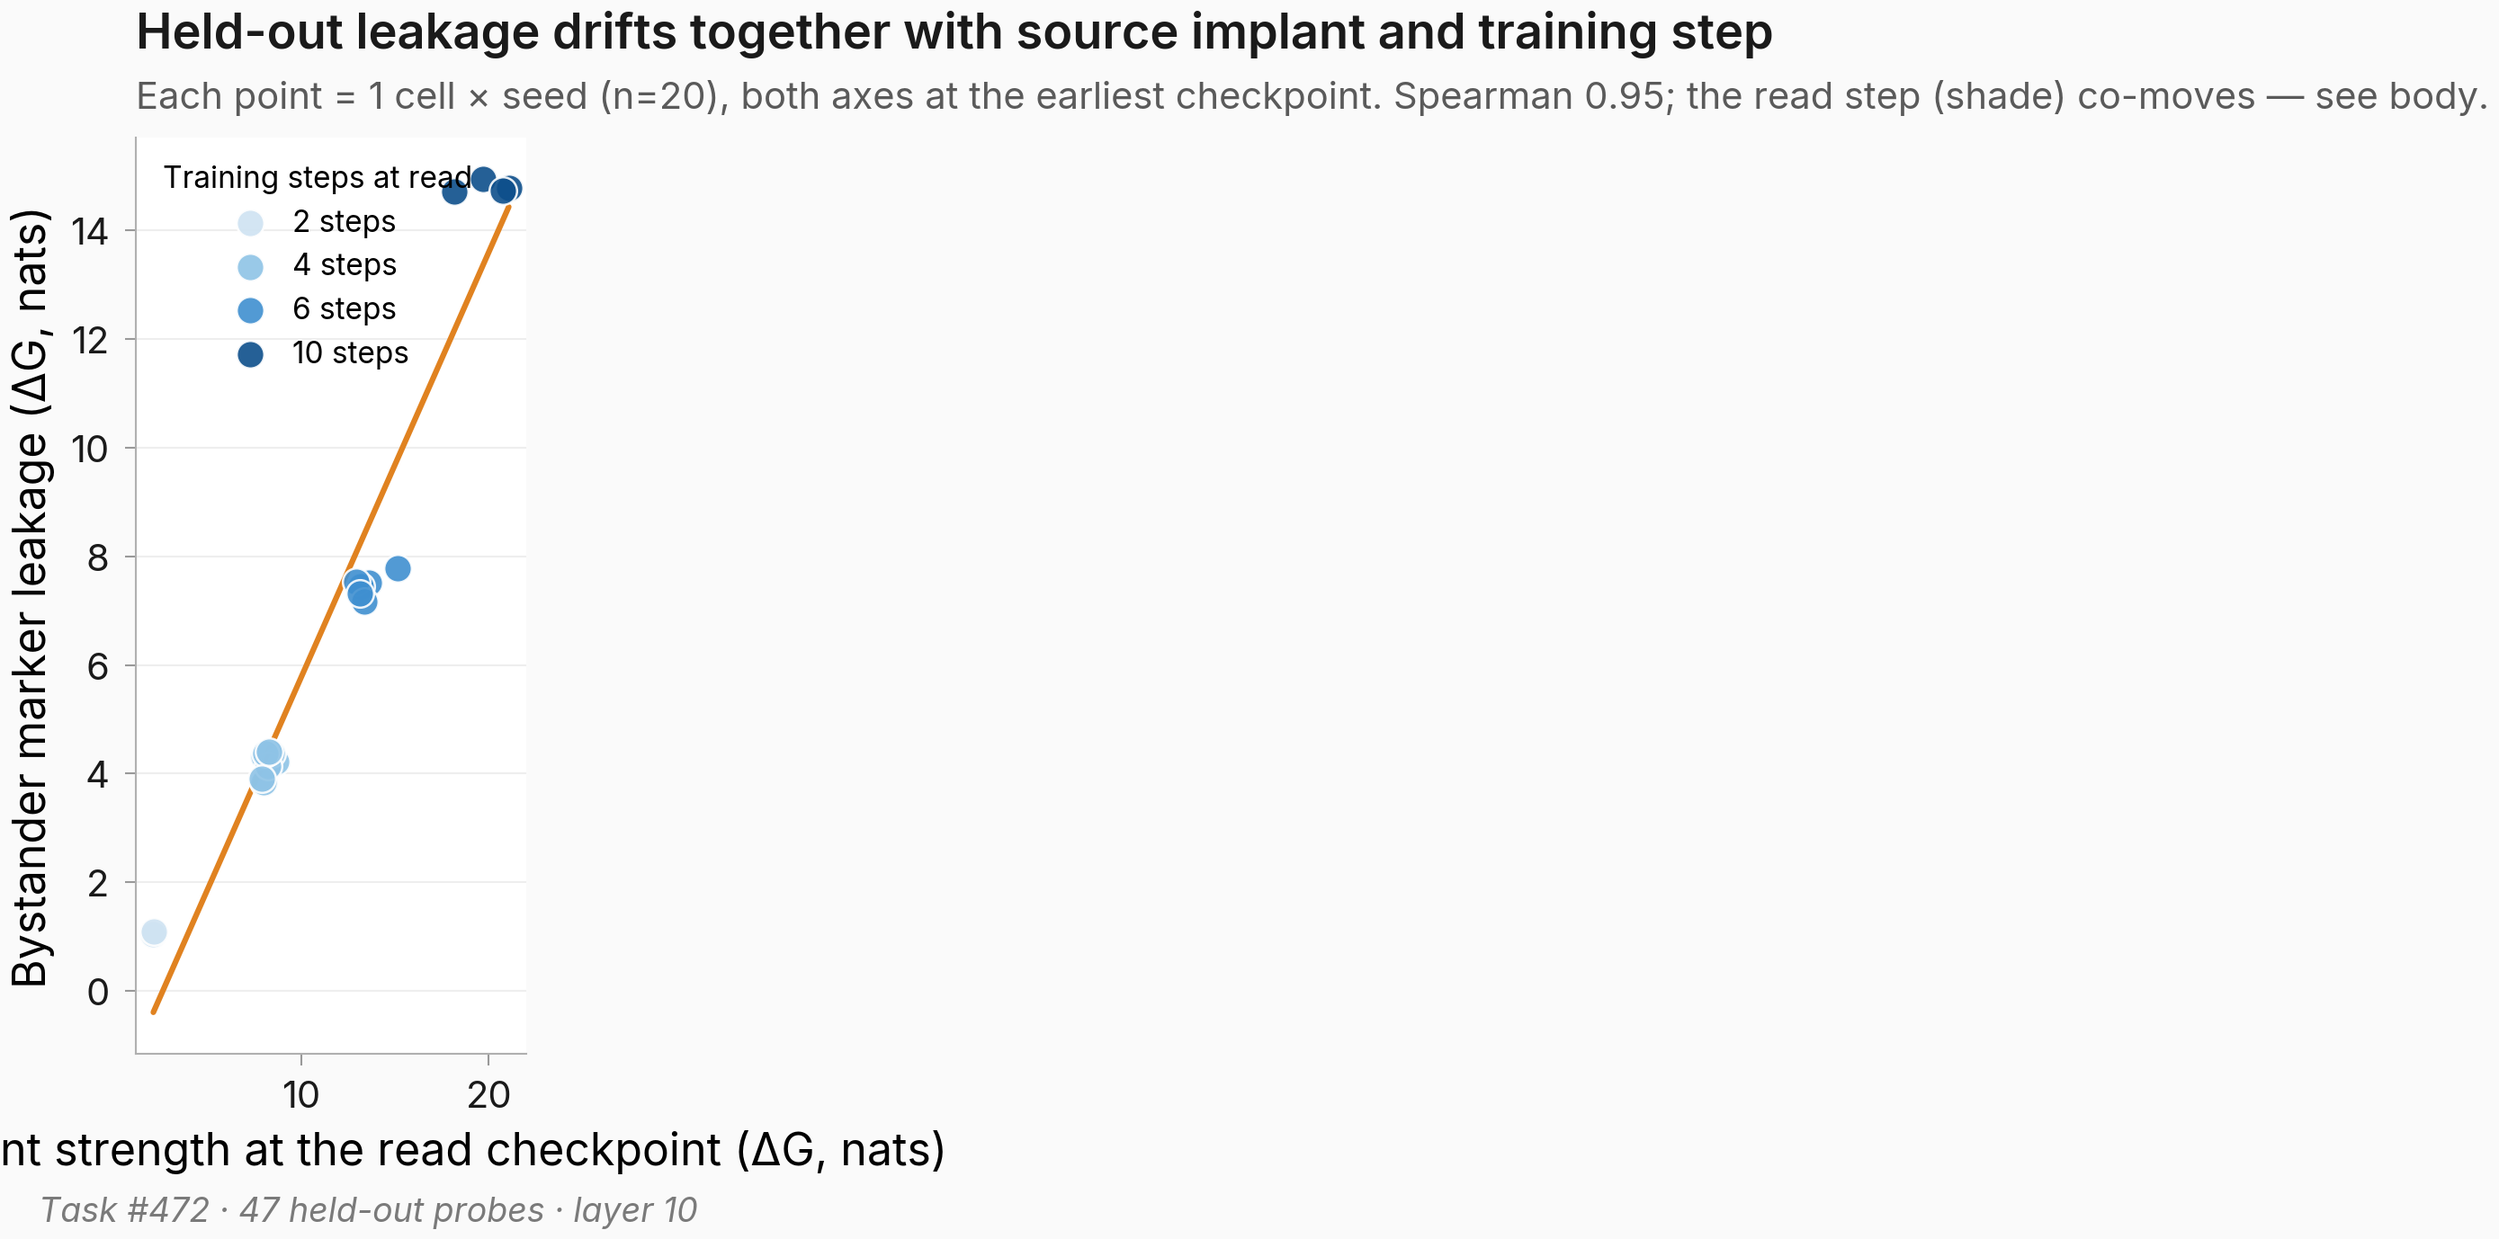
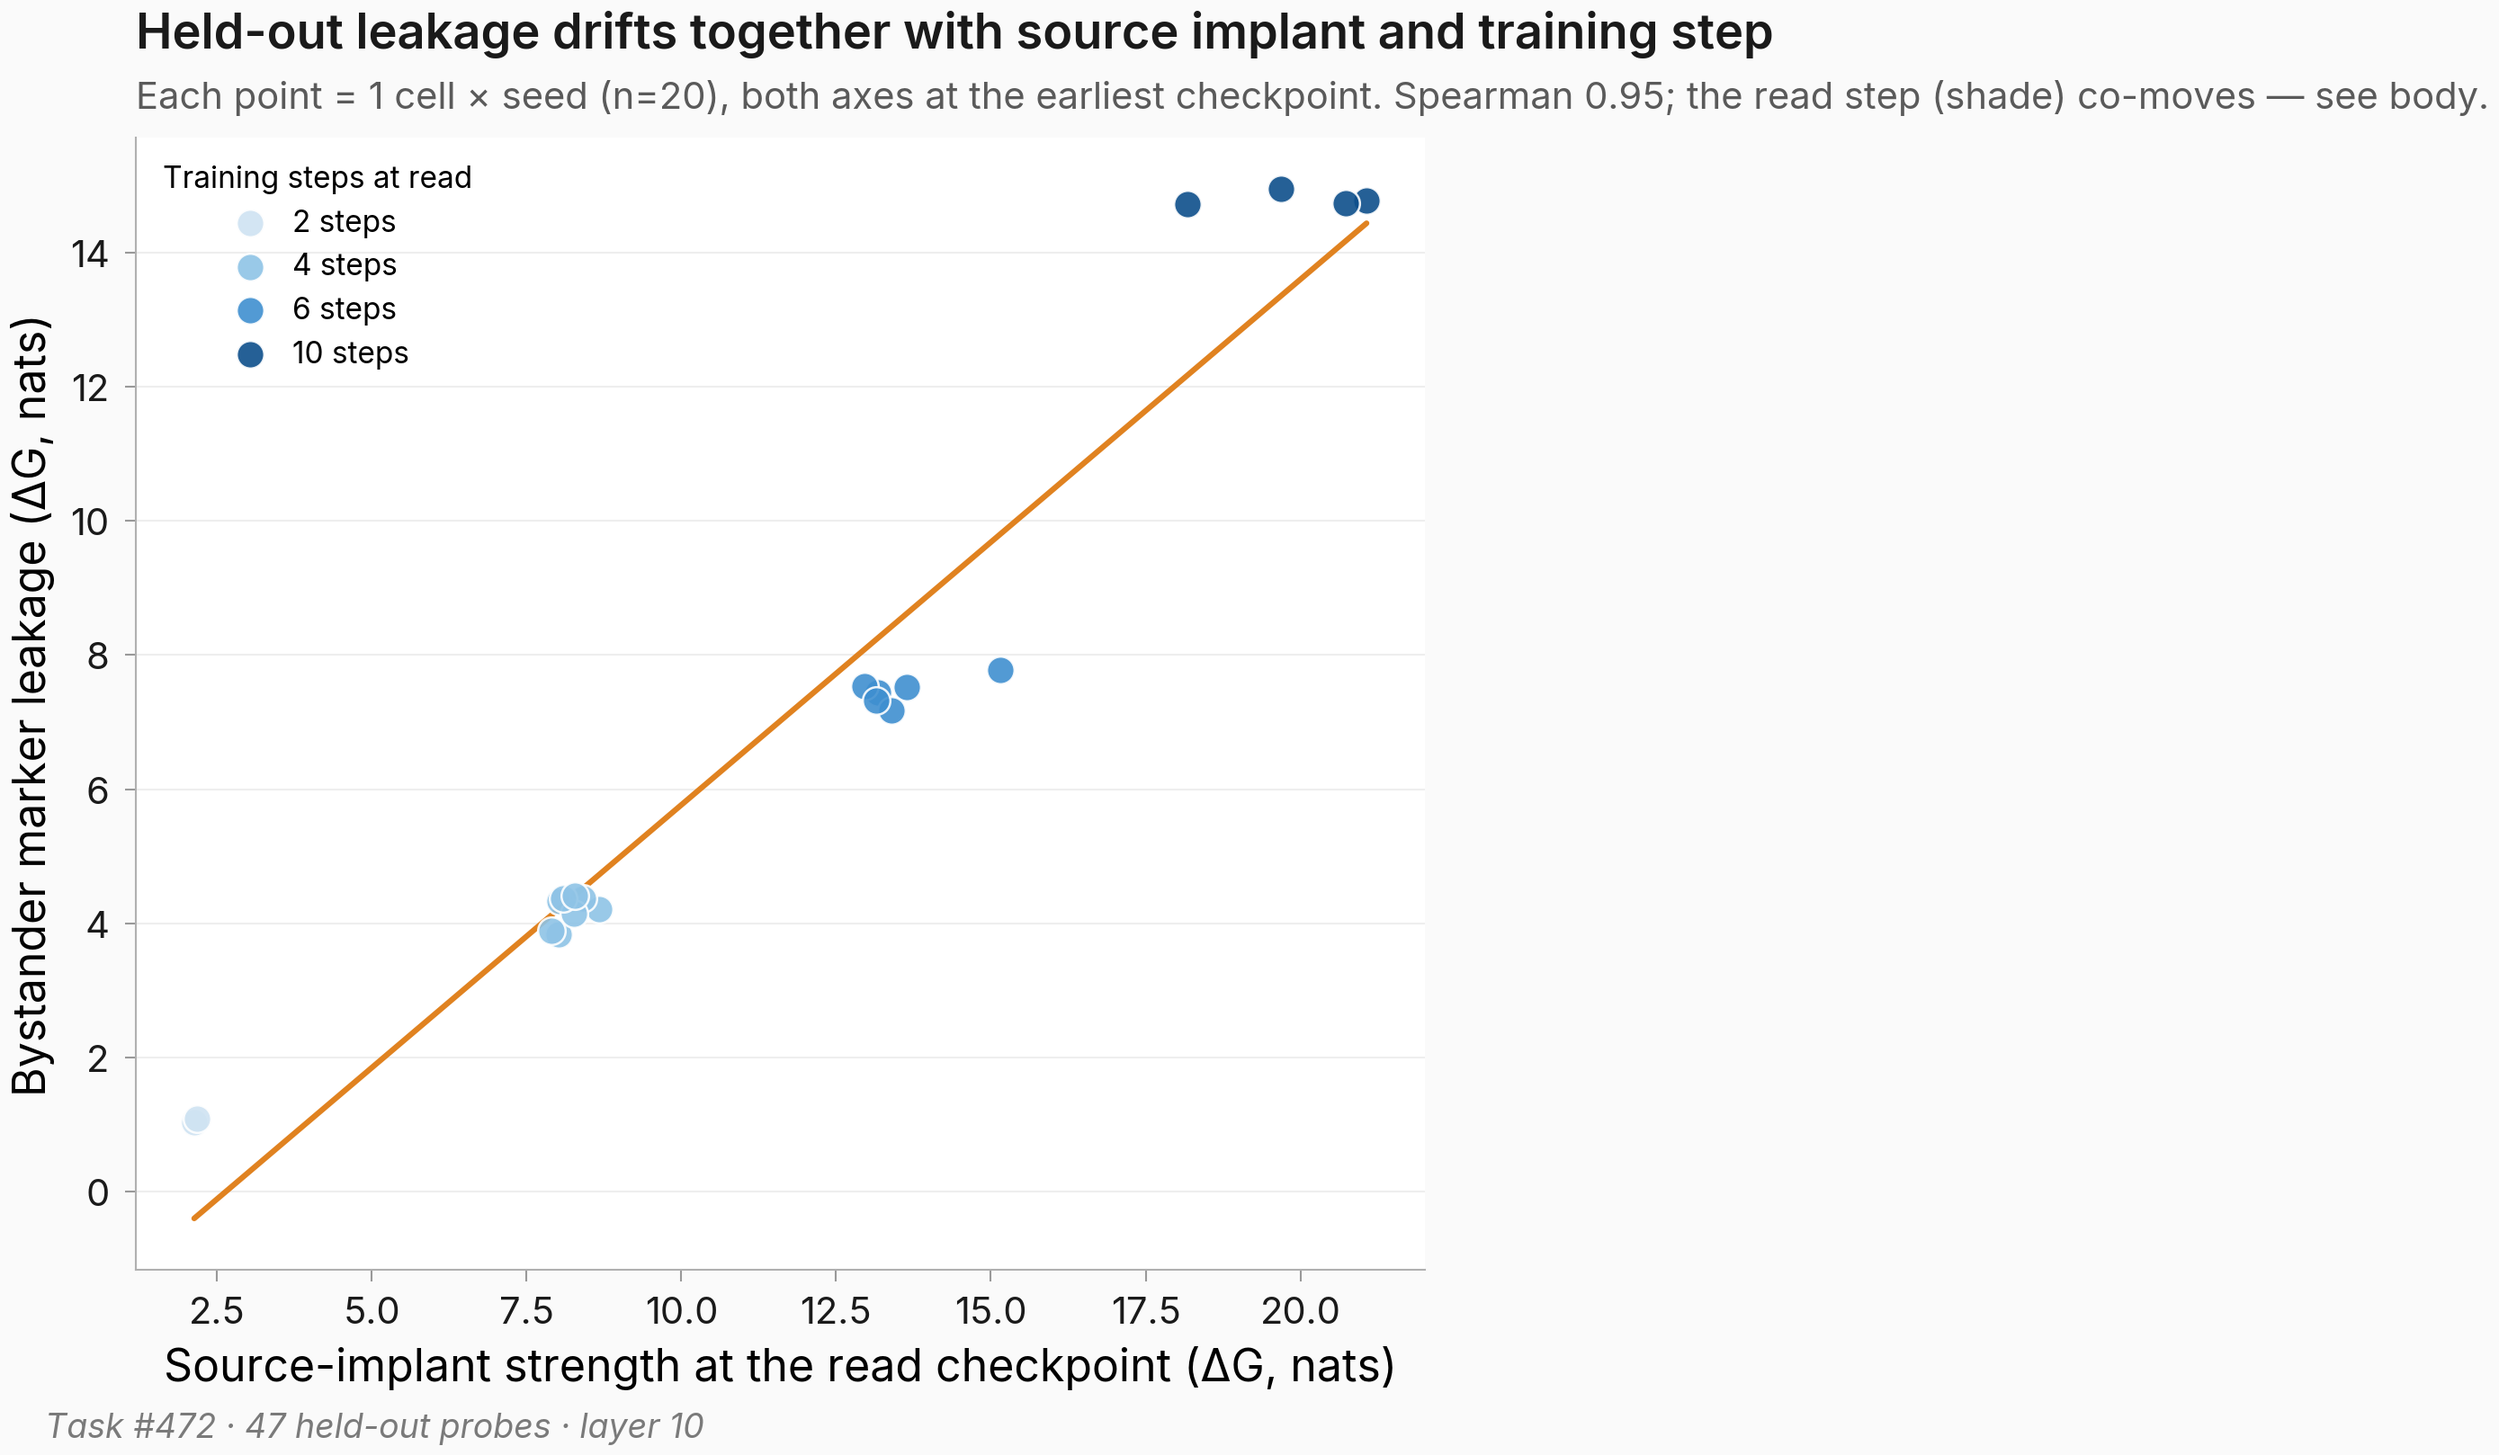
figures: issue #472 hero round-2 margin fix

diff --git a/scripts/issue472_regenerate_hero.py b/scripts/issue472_regenerate_hero.py
@@ -1,0 +1,120 @@
+# ruff: noqa: RUF001
+"""Regenerate hero_implant_drives_leakage.png with fixed margins.
+
+Round 2 critique caught the x-axis label was clipped on the left in the
+original render. Widen figure + bump bottom/left margin so the axis labels
+clear the canvas; tighten right margin so the rightmost point label is in
+frame. Same data, same colors.
+"""
+
+from __future__ import annotations
+
+import json
+from pathlib import Path
+
+import matplotlib.pyplot as plt
+import numpy as np
+from scipy.stats import spearmanr
+
+from explore_persona_space.analysis.paper_plots import (
+    paper_palette_role,
+    savefig_paper,
+    set_paper_style,
+    set_title_subtitle,
+)
+from explore_persona_space.experiments.contrastive_neg_geometry_472 import CELL_SPECS
+
+WT = Path("/home/thomasjiralerspong/explore-persona-space/.claude/worktrees/issue-472")
+SLAB = WT / "eval_results" / "issue_472"
+FIG = WT / "figures" / "issue_472"
+SEEDS = [42, 137]
+
+
+def traj(cell, seed):
+    p = SLAB / f"{cell}_seed{seed}" / "trajectory.json"
+    return json.loads(p.read_text())
+
+
+def earliest(cell, seed):
+    return sorted(traj(cell, seed)["checkpoints"], key=lambda c: c["frac"])[0]
+
+
+def held_mean_dg(cell, seed):
+    ck = earliest(cell, seed)
+    vals = [r["delta_g"] for per in ck["held_out"].values() for r in per.values()]
+    return float(np.mean(vals))
+
+
+def src_earliest_dg(cell, seed):
+    return earliest(cell, seed)["source_self"]["delta_g_mean"]
+
+
+def earliest_step(cell, seed):
+    ck = earliest(cell, seed)
+    return ck.get("step", ck.get("global_step"))
+
+
+def main():
+    set_paper_style("blog")
+    FIG.mkdir(parents=True, exist_ok=True)
+    all_cells = [c[0] for c in CELL_SPECS]
+
+    xs, ys, steps = [], [], []
+    for cell in all_cells:
+        for seed in SEEDS:
+            xs.append(src_earliest_dg(cell, seed))
+            ys.append(held_mean_dg(cell, seed))
+            steps.append(earliest_step(cell, seed))
+    rho = spearmanr(xs, ys).correlation
+
+    step_levels = sorted(set(steps))
+    shades = ["#cfe3f2", "#8ec3e6", "#3f8fd0", "#0d4f8b"]
+    step_color = {s: shades[min(i, len(shades) - 1)] for i, s in enumerate(step_levels)}
+
+    # Wider figure so constrained_layout (set by set_paper_style("blog")) has
+    # enough canvas to fit the left-aligned title block, the x-axis label, the
+    # y-axis label, and the rightmost data point without clipping.  Round-1 used
+    # 7.2 x 4.6 and the x-axis label was clipped on the left.
+    fig, ax = plt.subplots(figsize=(8.4, 5.4))
+    for s in step_levels:
+        sx = [x for x, st in zip(xs, steps, strict=False) if st == s]
+        sy = [y for y, st in zip(ys, steps, strict=False) if st == s]
+        ax.scatter(
+            sx,
+            sy,
+            s=54,
+            alpha=0.9,
+            color=step_color[s],
+            edgecolor="white",
+            linewidth=0.6,
+            zorder=3,
+            label=f"{s} steps",
+        )
+    coef = np.polyfit(xs, ys, 1)
+    xl = np.linspace(min(xs), max(xs), 20)
+    ax.plot(xl, np.polyval(coef, xl), color=paper_palette_role("baseline"), lw=1.5, zorder=2)
+    ax.set_xlabel("Source-implant strength at the read checkpoint (ΔG, nats)")
+    ax.set_ylabel("Bystander marker leakage (ΔG, nats)")
+    ax.legend(
+        frameon=False,
+        fontsize=8,
+        loc="upper left",
+        title="Training steps at read",
+        title_fontsize=8,
+    )
+    set_title_subtitle(
+        ax,
+        "Held-out leakage drifts together with source implant and training step",
+        f"Each point = 1 cell × seed (n=20), both axes at the earliest checkpoint. "
+        f"Spearman {rho:.2f}; the read step (shade) co-moves — see body.",
+        source="Task #472 · 47 held-out probes · layer 10",
+    )
+    # constrained_layout (set by set_paper_style("blog")) handles margins;
+    # the figsize above gives it enough room to avoid x-label clipping.
+    savefig_paper(fig, "issue_472/hero_implant_drives_leakage", dir=str(FIG.parent))
+    plt.close(fig)
+    print(f"Wrote {FIG / 'hero_implant_drives_leakage.png'}")
+
+
+if __name__ == "__main__":
+    main()
